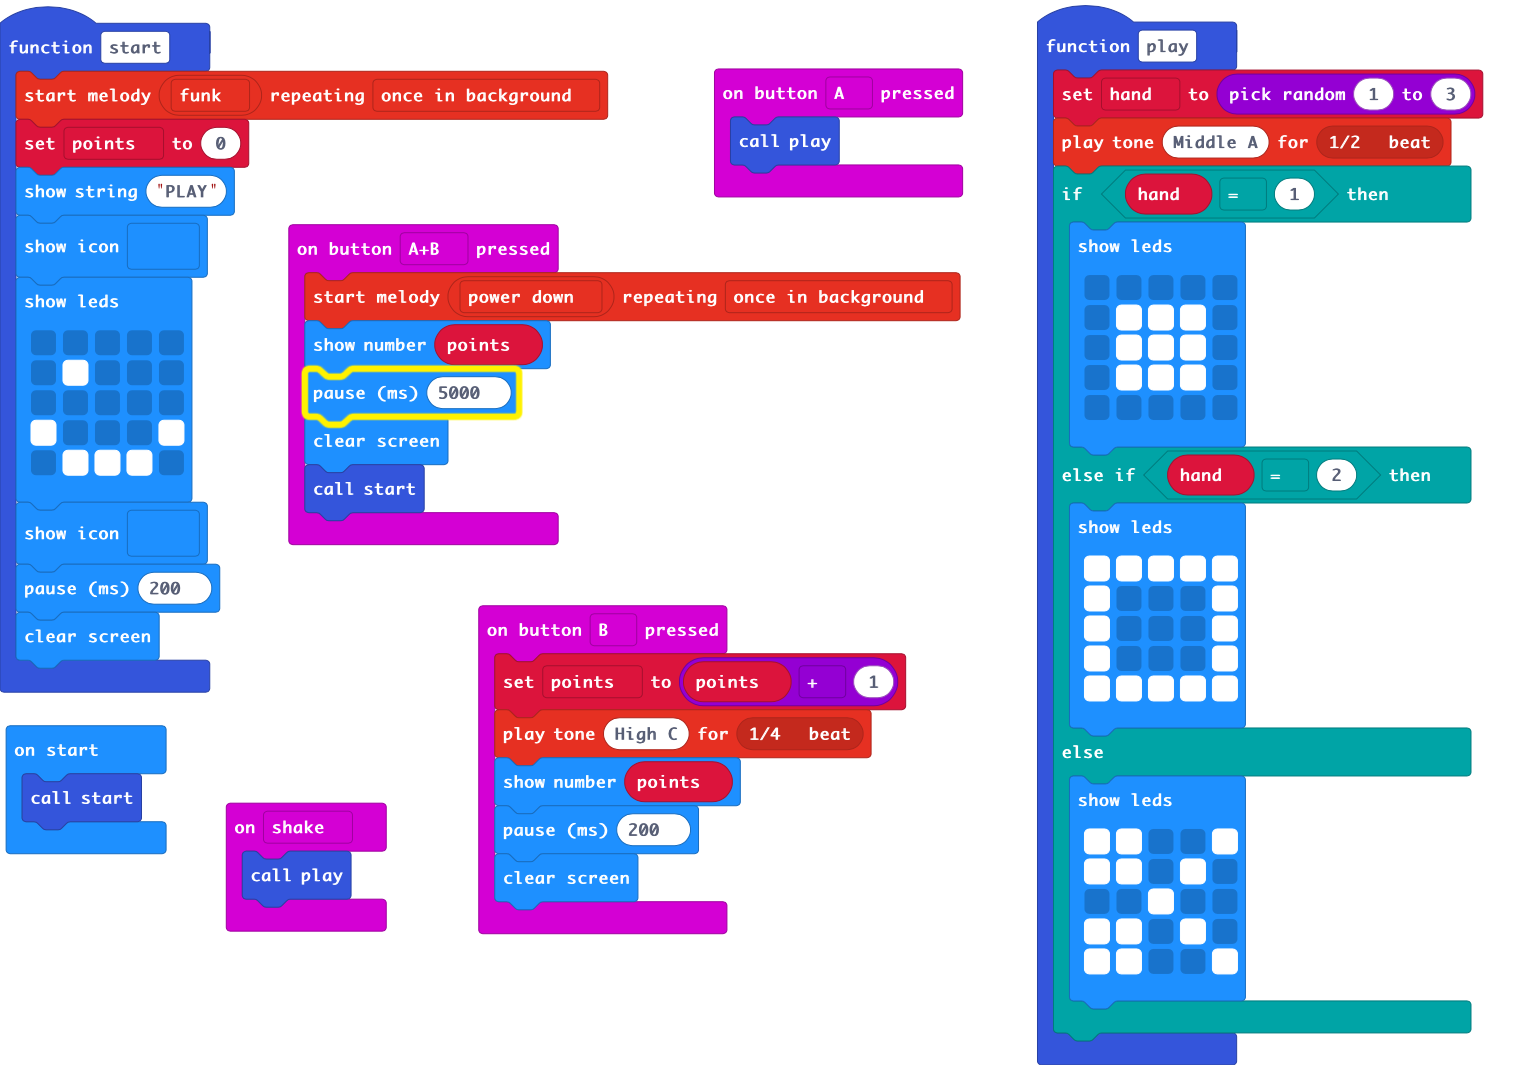
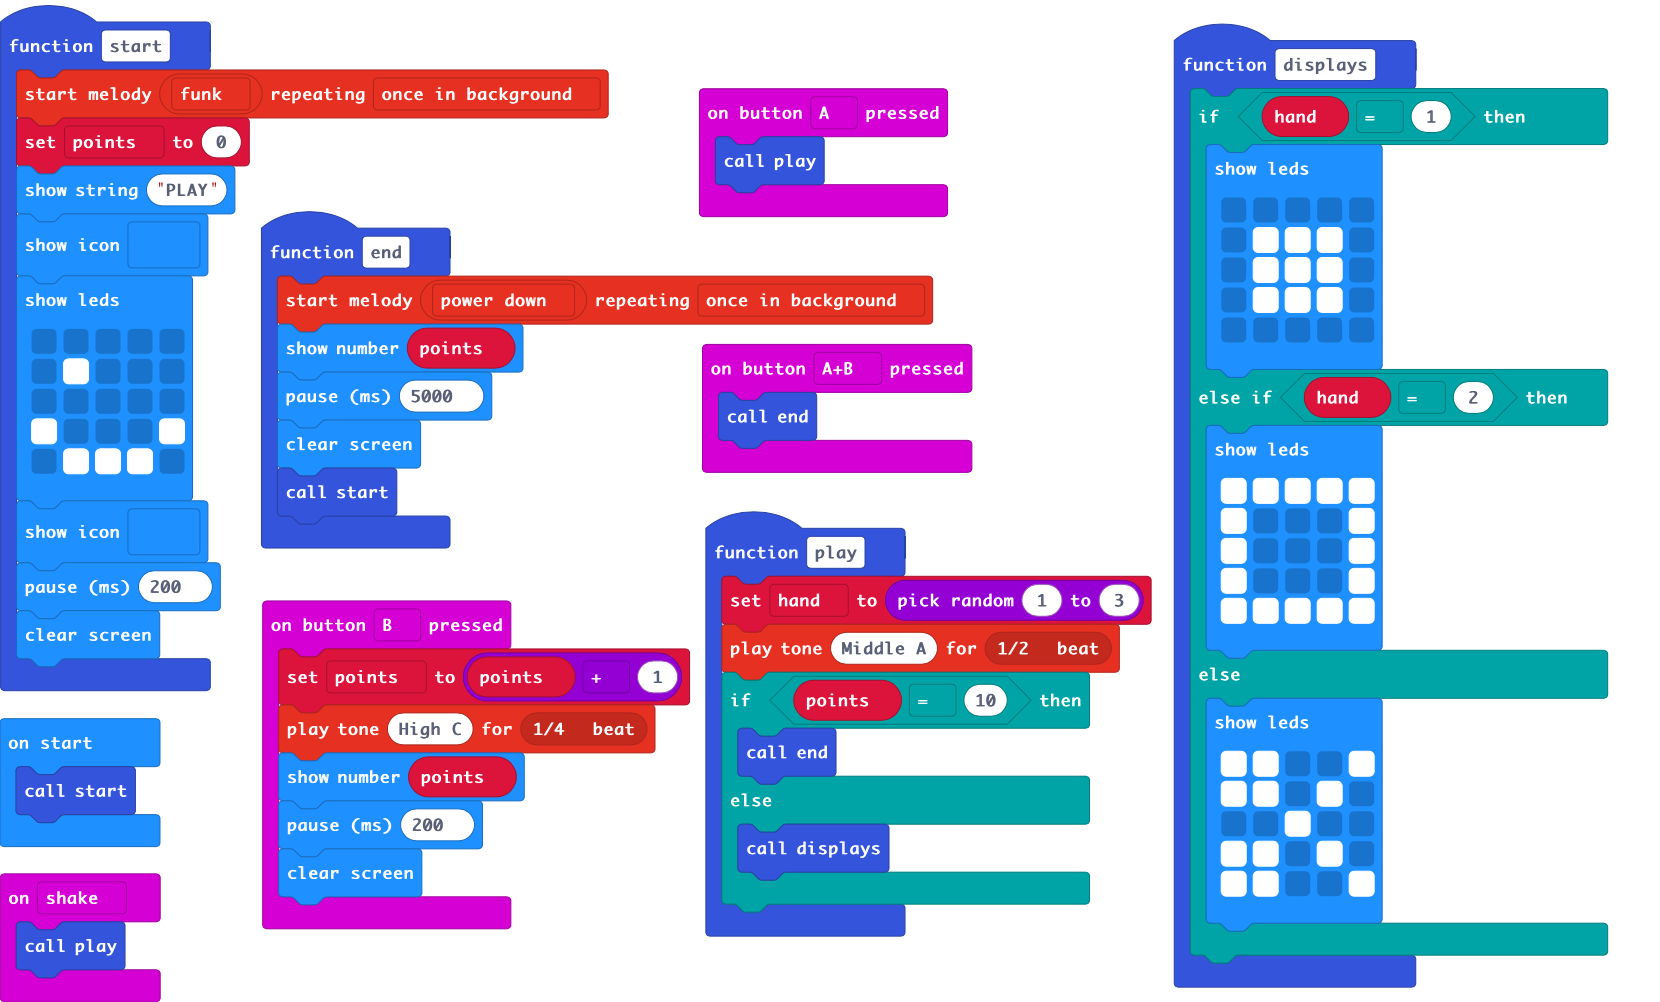
added 10 points end function call

diff --git a/main.ts b/main.ts
@@ -1,41 +1,24 @@
 input.onButtonPressed(Button.A, function () {
     play()
 })
-function play () {
-    hand = randint(1, 3)
-    music.playTone(440, music.beat(BeatFraction.Half))
-    if (hand == 1) {
-        basic.showLeds(`
-            . . . . .
-            . # # # .
-            . # # # .
-            . # # # .
-            . . . . .
-            `)
-    } else if (hand == 2) {
-        basic.showLeds(`
-            # # # # #
-            # . . . #
-            # . . . #
-            # . . . #
-            # # # # #
-            `)
-    } else {
-        basic.showLeds(`
-            # # . . #
-            # # . # .
-            . . # . .
-            # # . # .
-            # # . . #
-            `)
-    }
-}
-input.onButtonPressed(Button.AB, function () {
+function end () {
     music.startMelody(music.builtInMelody(Melodies.PowerDown), MelodyOptions.OnceInBackground)
     basic.showNumber(points)
     basic.pause(5000)
     basic.clearScreen()
     start()
+}
+function play () {
+    hand = randint(1, 3)
+    music.playTone(440, music.beat(BeatFraction.Half))
+    if (points == 10) {
+        end()
+    } else {
+        displays()
+    }
+}
+input.onButtonPressed(Button.AB, function () {
+    end()
 })
 input.onButtonPressed(Button.B, function () {
     points = points + 1
@@ -63,6 +46,33 @@ function start () {
     basic.pause(200)
     basic.clearScreen()
 }
-let points = 0
+function displays () {
+    if (hand == 1) {
+        basic.showLeds(`
+            . . . . .
+            . # # # .
+            . # # # .
+            . # # # .
+            . . . . .
+            `)
+    } else if (hand == 2) {
+        basic.showLeds(`
+            # # # # #
+            # . . . #
+            # . . . #
+            # . . . #
+            # # # # #
+            `)
+    } else {
+        basic.showLeds(`
+            # # . . #
+            # # . # .
+            . . # . .
+            # # . # .
+            # # . . #
+            `)
+    }
+}
 let hand = 0
+let points = 0
 start()
